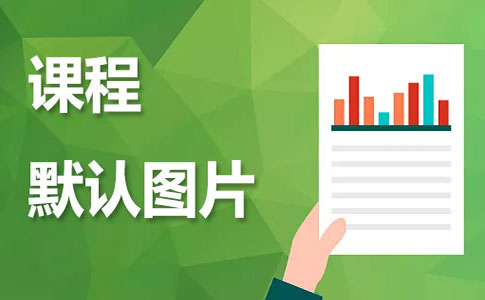
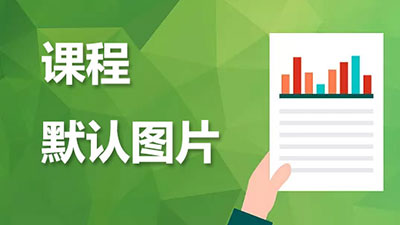
修正课程图片的上传大小

diff --git a/Song.Site/Templates/Mobi/Default2019/CoreScripts/mui-fuction.js b/Song.Site/Templates/Mobi/Default2019/CoreScripts/mui-fuction.js
@@ -57,6 +57,10 @@ function APIClound_Event() {
                 //alert(JSON.stringify(err));
             }
         });
+        //长按返回键，关闭软件
+        api.addEventListener({ name: 'longpress' }, function (ret, err) {
+            api.closeWin();
+        });
         /*
         //监听音量调节
         api.addEventListener({ name: 'volumedown' }, function (ret, err) {
@@ -117,14 +121,15 @@ function event_goback(ret) {
     //
     window.history.go(-1);
 
-    
+    /*
     //如果快速双击返回键，关闭软件
     window.appback_num = typeof (window.appback_num) == "undefined" ? 0 : window.appback_num;
     window.appback_time = typeof (window.appback_time) == "undefined" ? new Date() : window.appback_time;
     if ((new Date().getTime() - window.appback_time.getTime()) < 200) { window.appback_num++; }
     else { window.appback_num = 0; }
-    window.appback_time = new Date();
-    if (window.appback_num == 1) api.closeWin();
-    
+    //window.appback_time = new Date();
+    if (window.appback_num % 2 == 1) api.closeWin();
+    */
+
 }
 

diff --git a/Song.Site/Templates/Mobi/Default2019/Styles/Course.css b/Song.Site/Templates/Mobi/Default2019/Styles/Course.css
@@ -15,6 +15,7 @@ body{
 	width: 100%;
 	min-height:120px;	
 	height:auto;
+	box-shadow: 0 1px 2px rgba(0, 0, 0, .3);
 }
 #Context{
 	margin-right: 10px;
@@ -158,14 +159,14 @@ body{
 	text-align: center;
 	color: #FFF;
 	display:block;
-	font-size:18px;
-	text-shadow: 1px 1px 2px rgba(200,200,200,1);
+	font-size:16px;
+	text-shadow: 0px 0px 20px rgba(255,255,255,1);
 	
 }
 .couBtn{
 	background-color: #188eee;
 	height:50px;
-	background: linear-gradient(rgba(0,153,255,0.8), rgba(0,153,255,1));
+	background: linear-gradient(rgba(17,142,234,0.9), rgba(17,142,234,1));
 }
 .btn1{
 	width:40%;
@@ -175,9 +176,11 @@ body{
 	width:60%;
 	float:left;
 }
-.study{
+/*开始学习的按钮*/
+.couBtnBox .study{
 	background-color:#093;
-	background: linear-gradient(rgba(0,153,51,0.8), rgba(0,153,51,1));
+	--background: linear-gradient(rgba(34,139,34,0.8), rgba(34,139,34,1));
+	background: linear-gradient(rgba(59,172,106,0.9), rgba(59,172,106,1));
 }
 /*当课程试用时，有两个按钮*/
 .btnStart{

diff --git a/Song.Site/Templates/Web/_Public/Module/Course/Sheet.css b/Song.Site/Templates/Web/_Public/Module/Course/Sheet.css
@@ -6,7 +6,7 @@
 }
 #couHead .headRight {
 	float: right;
-	height: 375px;
+	height: 342px;
 	width: 560px;
 	position: relative;
 }
@@ -16,11 +16,11 @@
 }
 #couHead .photo {
 	float: left;
-	height: 370px;
+	height: 337px;
 	width: 600px;
 }
 #couHead .photo img {
-	height: 370px;
+	height: 337px;
 	width: 600px;
 	margin-top: 5px;
 	margin-left: 5px;

diff --git a/Song.Site/Templates/Mobi/Default2019/Styles/default.css b/Song.Site/Templates/Mobi/Default2019/Styles/default.css
@@ -242,7 +242,7 @@ a {
 /*推荐的角标*/
 .cour-list .cour-box rec{
 	position:absolute;
-	top:18px;
+	top:17px;
 	left:-3px;
 }
 .cour-list .cour-box rec:before{

diff --git a/Song.Site/Templates/Mobi/Default2019/Styles/Courses.css b/Song.Site/Templates/Mobi/Default2019/Styles/Courses.css
@@ -209,7 +209,7 @@ input {
 /*推荐的角标*/
 .cour-box rec {
 	position: absolute;
-	top: 8px;
+	top: 7px;
 	left: -3px;
 }
 .cour-box rec:before {

diff --git a/Song.Site/Templates/Mobi/Default2019/Styles/CoursePage.css b/Song.Site/Templates/Mobi/Default2019/Styles/CoursePage.css
@@ -17,6 +17,7 @@ body {
 	width: 100%;
 	min-height: 120px;
 	height: auto;
+	box-shadow: 0 1px 2px rgba(0, 0, 0, .3);
 }
 #Context {
 	padding: 10px;

diff --git a/Song.Site/Manage/Course/Courses_Edit.aspx.cs b/Song.Site/Manage/Course/Courses_Edit.aspx.cs
@@ -166,11 +166,12 @@ namespace Song.Site.Manage.Course
                     fuLoad.IsMakeSmall = true;
                     fuLoad.IsConvertJpg = true;
                     fuLoad.SmallWidth = 400;
-                    fuLoad.SmallHeight = 247;                   
+                    fuLoad.SmallHeight = 225;                   
                     fuLoad.SaveAndDeleteOld(cou.Cou_Logo);
                     //截取图片宽高
                     int width = fuLoad.File.Server.Width;
-                    int height = width * 618 / 1000;
+                    width = width > 1000 ? 1000 : width;
+                    int height = width * 5625 / 10000;  //宽高比为1:0.5625
                     fuLoad.File.Server.ChangeSize(width, height, false);
                     cou.Cou_Logo = fuLoad.File.Server.FileName;
                     cou.Cou_LogoSmall = fuLoad.File.Server.SmallFileName;
